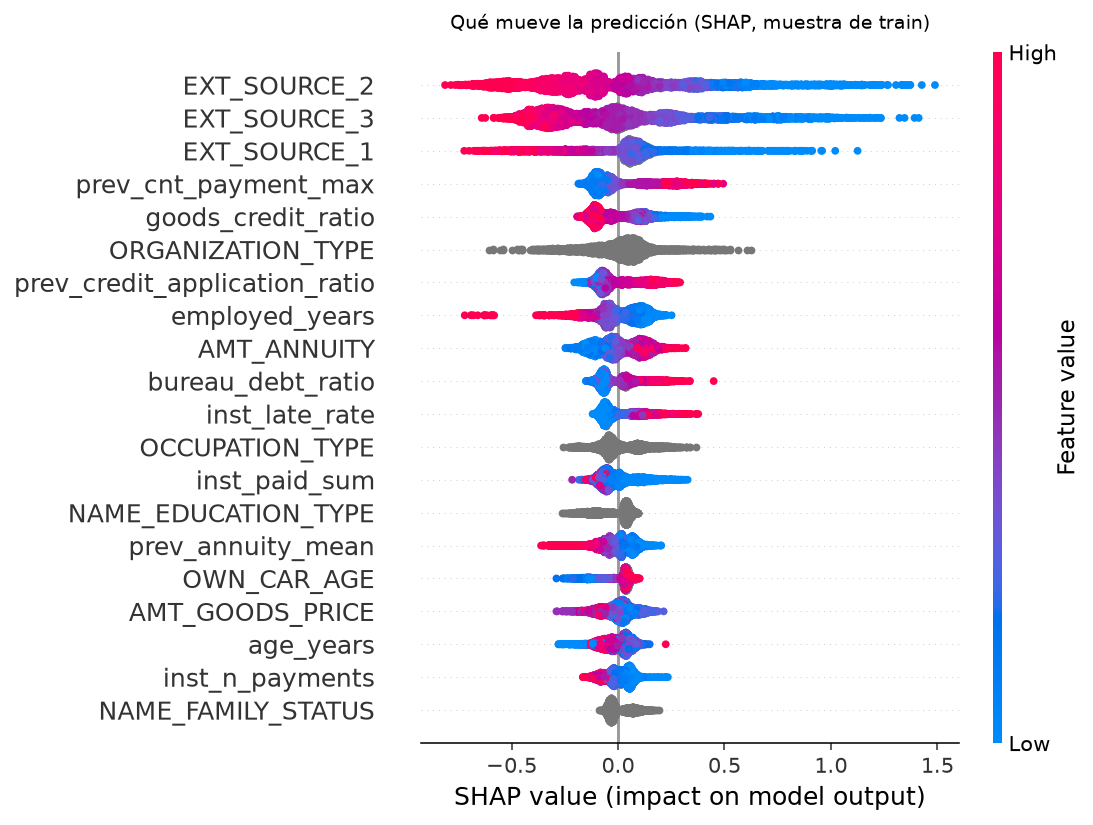
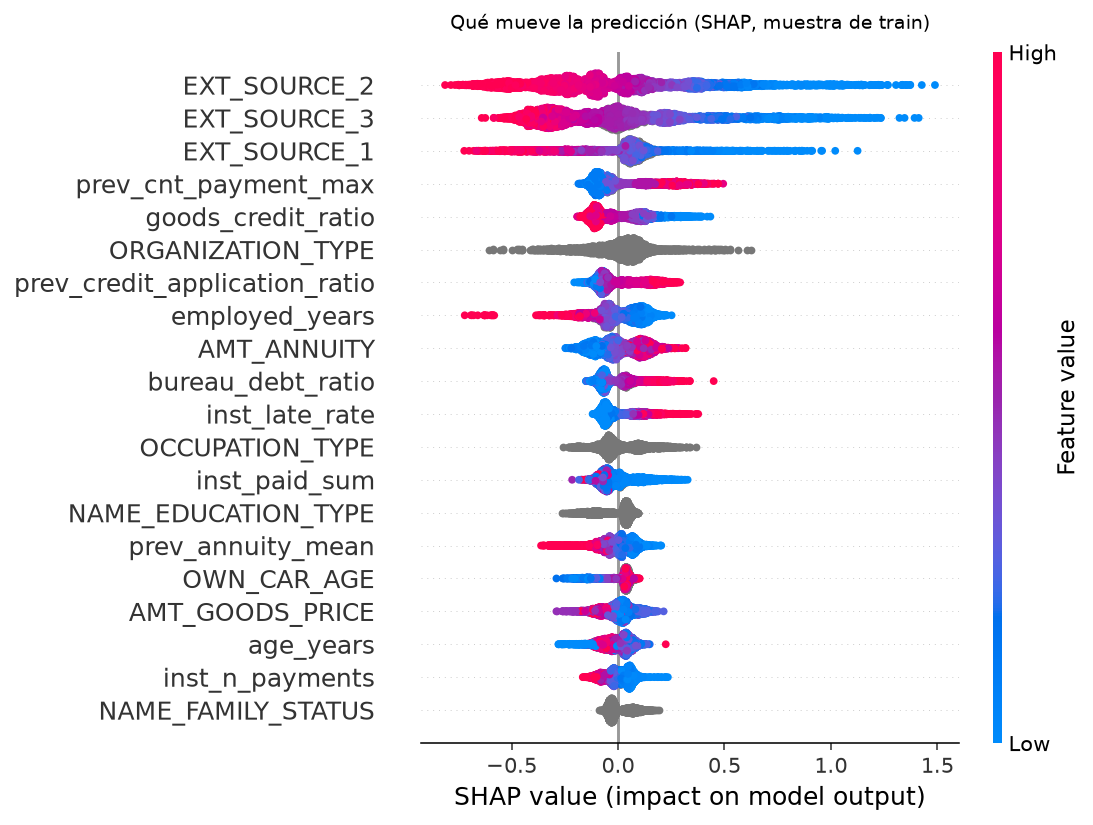
revisión: cobertura de la api, claves de las razones y readme

diff --git a/src/ayni/explain.py b/src/ayni/explain.py
@@ -16,7 +16,7 @@ from __future__ import annotations
 
 import json
 import warnings
-from dataclasses import asdict, dataclass
+from dataclasses import dataclass
 from pathlib import Path
 
 import matplotlib
@@ -56,9 +56,16 @@ class Razon:
     direccion: str  # "aumenta_riesgo" | "reduce_riesgo"
 
     def a_dict(self) -> dict:
-        datos = asdict(self)
-        datos["shap"] = round(float(self.shap), 4)
-        return datos
+        # mismos nombres que expone la API: `contribucion` en log-odds y `direccion`
+        valor = self.valor
+        if isinstance(valor, (int, float)) and not isinstance(valor, bool):
+            valor = round(float(valor), 4)
+        return {
+            "feature": self.feature,
+            "valor": valor,
+            "contribucion": round(float(self.shap), 4),
+            "direccion": self.direccion,
+        }
 
 
 def cargar_modelo(version: str = "latest") -> lgb.LGBMClassifier:
@@ -209,11 +216,15 @@ def ejecutar(version: str = "latest", muestra: int = MUESTRA_GLOBAL) -> dict:
         "aprobado": {
             "sk_id_curr": int(train.iloc[aprobado][ID_COL]),
             "probabilidad": round(float(proba[aprobado]), 4),
+            "umbral": umbral,
+            "decision": "approve" if proba[aprobado] <= umbral else "reject",
             "razones": razones_aprobado,
         },
         "rechazado": {
             "sk_id_curr": int(train.iloc[rechazado][ID_COL]),
             "probabilidad": round(float(proba[rechazado]), 4),
+            "umbral": umbral,
+            "decision": "approve" if proba[rechazado] <= umbral else "reject",
             "razones": razones_rechazado,
         },
         "figuras": [

diff --git a/src/ayni/api.py b/src/ayni/api.py
@@ -34,6 +34,10 @@ warnings.filterwarnings("ignore", message=".*shap values output has changed.*")
 
 MODELS_DIR = ROOT / "models"
 TOP_RAZONES = 5
+# El contrato HTTP cubre como máximo el 15.7 % de los 185 campos del modelo
+# (montos, ratios derivados, scores y agregados que el banco ya tiene). Avisar por debajo
+# del 50 % haría que la advertencia saltara siempre; 10 % es "solo mandaste lo obligatorio".
+COBERTURA_MINIMA = 0.10
 
 
 # ── contrato de entrada ────────────────────────────────────────────────────────
@@ -312,7 +316,7 @@ def crear_app(servicio: Servicio | None = None, directorio: Path = MODELS_DIR) -
         cobertura = _cobertura(X)
         advertencia = (
             None
-            if cobertura >= 0.5
+            if cobertura >= COBERTURA_MINIMA
             else (
                 f"Solo se informó el {cobertura:.0%} de los campos del modelo: la probabilidad "
                 "puede diferir de la que se obtendría con el expediente completo."

diff --git a/tests/test_api.py b/tests/test_api.py
@@ -9,7 +9,7 @@ import pytest
 from fastapi.testclient import TestClient
 from lightgbm import LGBMClassifier
 
-from ayni.api import cargar_servicio, crear_app
+from ayni.api import COBERTURA_MINIMA, cargar_servicio, crear_app
 
 COLUMNAS = [
     "AMT_INCOME_TOTAL",
@@ -101,11 +101,11 @@ def test_las_razones_solo_hablan_de_campos_enviados(cliente_api):
     assert usadas <= enviados
 
 
-def test_cobertura_y_advertencia_con_payload_incompleto(cliente_api):
+def test_la_advertencia_salta_exactamente_cuando_la_cobertura_es_baja(cliente_api):
     datos = cliente_api.post("/explain", json=PAYLOAD).json()
 
     assert 0 < datos["cobertura"] < 1
-    assert datos["advertencia"]
+    assert (datos["advertencia"] is not None) == (datos["cobertura"] < COBERTURA_MINIMA)
 
 
 def test_entrada_invalida_se_rechaza(cliente_api):

diff --git a/tests/test_explain.py b/tests/test_explain.py
@@ -76,5 +76,5 @@ def test_diccionario_serializable_para_la_api(modelo_y_datos):
 
     razon = razones(explicador, X.iloc[[1]], top=1)[0].a_dict()
 
-    assert set(razon) == {"feature", "valor", "shap", "direccion"}
-    assert isinstance(razon["shap"], float)
+    assert set(razon) == {"feature", "valor", "contribucion", "direccion"}
+    assert isinstance(razon["contribucion"], float)

diff --git a/README.md b/README.md
@@ -52,42 +52,55 @@ Ayni cubre las tres cosas: la predicción, la decisión por costo y la explicaci
 
 ## Uso rápido
 
+> Requiere el entorno instalado y el modelo exportado; los pasos completos están en
+> [Cómo reproducirlo](#cómo-reproducirlo).
+
 ```bash
 ayni export-model        # deja el modelo y el umbral en models/
 docker compose up        # API en :8000/docs · MLflow en :5000
 ```
 
 ```bash
-curl -X POST localhost:8000/predict -H "Content-Type: application/json" \
+curl -X POST localhost:8000/predict \
+  -H "Content-Type: application/json" \
   -d '{"amt_income_total": 180000, "amt_credit": 450000, "amt_annuity": 24500,
        "age_years": 34, "years_employed": 4, "ext_source_1": 0.55,
        "ext_source_2": 0.61, "ext_source_3": 0.40, "contract_type": "Cash loans"}'
 ```
 
 ```json
-{"probabilidad": 0.0928, "decision": "approve", "umbral": 0.16, "modelo_version": "latest"}
+{"probabilidad": 0.0888, "decision": "approve", "umbral": 0.16, "modelo_version": "latest"}
 ```
 
-Y la explicación de esa misma decisión, con las razones que se le darían al cliente:
+Y la explicación de un cliente de alto riesgo, con las razones que se le darían al rechazarlo:
 
 ```bash
-curl -X POST localhost:8000/explain -H "Content-Type: application/json"   -d '{"amt_income_total": 96000, "amt_credit": 900000, "amt_annuity": 45000,
-       "age_years": 23, "years_employed": null, "ext_source_1": 0.12,
-       "ext_source_2": 0.18, "ext_source_3": 0.09,
-       "bureau_debt_ratio": 0.95, "prev_refusal_rate": 0.9}'
+curl -X POST localhost:8000/explain \
+  -H "Content-Type: application/json" \
+  -d '{"amt_income_total": 96000, "amt_credit": 900000, "amt_annuity": 45000,
+       "age_years": 23, "children": 3, "family_members": 5,
+       "ext_source_1": 0.12, "ext_source_2": 0.18, "ext_source_3": 0.09,
+       "education": "Lower secondary", "occupation": "Low-skill Laborers",
+       "organization": "Self-employed", "bureau_debt_ratio": 0.95,
+       "prev_refusal_rate": 0.9, "inst_late_rate": 0.45}'
 ```
 
 ```json
-{"probabilidad": 0.0804, "decision": "approve", "umbral": 0.16, "cobertura": 0.059,
+{"probabilidad": 0.7976, "decision": "reject", "umbral": 0.16, "modelo_version": "latest",
  "razones": [
-   {"feature": "annuity_income_ratio", "valor": 0.469, "contribucion": 0.069,  "direccion": "aumenta_riesgo"},
-   {"feature": "age_years",            "valor": 23.0,  "contribucion": -0.033, "direccion": "reduce_riesgo"},
-   {"feature": "credit_income_ratio",  "valor": 9.375, "contribucion": 0.018,  "direccion": "aumenta_riesgo"}
- ]}
+   {"feature": "EXT_SOURCE_3",       "valor": 0.09,           "contribucion": 1.0186, "direccion": "aumenta_riesgo"},
+   {"feature": "EXT_SOURCE_2",       "valor": 0.18,           "contribucion": 0.5859, "direccion": "aumenta_riesgo"},
+   {"feature": "EXT_SOURCE_1",       "valor": 0.12,           "contribucion": 0.4990, "direccion": "aumenta_riesgo"},
+   {"feature": "bureau_debt_ratio",  "valor": 0.95,           "contribucion": 0.2426, "direccion": "aumenta_riesgo"},
+   {"feature": "ORGANIZATION_TYPE",  "valor": "Self-employed", "contribucion": 0.2309, "direccion": "aumenta_riesgo"}
+ ],
+ "cobertura": 0.141, "advertencia": null}
 ```
 
-El campo `cobertura` dice qué fracción de los 185 campos del modelo llegó en el payload, y
-`advertencia` se activa si es baja: el servicio nunca inventa razones sobre datos que no recibió.
+`cobertura` es la fracción de los 185 campos del modelo que llegó en la petición, y `advertencia` se
+activa si es muy baja: el servicio no inventa razones sobre datos que no recibió. El contrato HTTP
+cubre como máximo el **15.7 %** de esos 185 campos (el resto son columnas del expediente que el
+modelo usa y la API no pide); los que faltan viajan como nulos, igual que en el entrenamiento.
 
 ---
 
@@ -137,7 +150,7 @@ flowchart LR
 2. **Validación antes de modelar.** Tres esquemas Pandera (tabla cruda, features, particiones) cortan el pipeline si aparecen tipos, rangos o nulos imposibles; `ayni validate` comprueba lo ya escrito y devuelve código de salida 1. Un CSV corrupto de prueba en `tests/fixtures/` demuestra que el corte funciona.
 3. **Split estratificado 80/20 con semilla fija.** El 20 % de test no se toca hasta la evaluación final; todo lo demás se decide en validación cruzada.
 4. **Dos métricas, no una.** ROC-AUC para comparar con el estándar de la competencia y PR-AUC porque con 8 % de positivos es la lectura honesta.
-5. **Desbalance por pesos, no por resampling.** Se compara `scale_pos_weight` contra no ajustar, y decide la métrica, no la intuición.
+5. **Se comparó el peso de clases contra no usarlo.** `scale_pos_weight` bajó el ROC-AUC (0.7774 vs 0.7796): el desbalance se resuelve en el umbral de decisión, no recoloreando el entrenamiento.
 6. **Umbral por costo.** Se recorre la curva de umbrales y se elige el que minimiza el costo esperado, con la matriz documentada.
 7. **Explicación dentro del servicio.** SHAP global para el reporte, SHAP local convertido en *reason codes* para cada decisión individual.
 8. **Trazabilidad completa.** Cada corrida queda en MLflow y el mejor modelo va al Model Registry con su umbral pegado al artefacto.
@@ -239,11 +252,11 @@ su valor, su contribución en log-odds y la dirección del riesgo.
 ```json
 {"sk_id_curr": 288491, "probabilidad": 0.2413, "umbral": 0.16, "decision": "reject",
  "razones": [
-   {"feature": "EXT_SOURCE_3", "valor": 0.357, "shap": 0.302, "direccion": "aumenta_riesgo"},
-   {"feature": "prev_refusal_rate", "valor": 0.889, "shap": 0.301, "direccion": "aumenta_riesgo"},
-   {"feature": "EXT_SOURCE_1", "valor": 0.277, "shap": 0.256, "direccion": "aumenta_riesgo"},
-   {"feature": "EXT_SOURCE_2", "valor": 0.647, "shap": -0.206, "direccion": "reduce_riesgo"},
-   {"feature": "bureau_debt_ratio", "valor": 0.993, "shap": 0.188, "direccion": "aumenta_riesgo"}
+   {"feature": "EXT_SOURCE_3",      "valor": 0.357, "contribucion": 0.3024, "direccion": "aumenta_riesgo"},
+   {"feature": "prev_refusal_rate", "valor": 0.889, "contribucion": 0.3012, "direccion": "aumenta_riesgo"},
+   {"feature": "EXT_SOURCE_1",      "valor": 0.277, "contribucion": 0.2559, "direccion": "aumenta_riesgo"},
+   {"feature": "EXT_SOURCE_2",      "valor": 0.647, "contribucion": -0.2062, "direccion": "reduce_riesgo"},
+   {"feature": "bureau_debt_ratio", "valor": 0.993, "contribucion": 0.1883, "direccion": "aumenta_riesgo"}
  ]}
 ```
 
@@ -294,7 +307,7 @@ seis figuras en [`reports/figures/`](reports/figures/).
 - **LightGBM como modelo principal, regresión logística como baseline:** los datos son tabulares, con nulos y categóricas de alta cardinalidad; el baseline existe para demostrar cuánto aporta la complejidad, no para competir.
 - **Agregaciones en SQL sobre DuckDB en vez de `groupby` en pandas:** las tablas relacionadas tienen decenas de millones de filas; el SQL es reproducible, legible y no exige cargar todo en RAM.
 - **El test no se toca hasta el final:** cada decisión de features, hiperparámetros y umbral se toma en validación. Un test consultado dos veces deja de ser test.
-- **Umbral distinto de 0.5:** aprobar a un mal pagador cuesta 5 y rechazar a un buen cliente cuesta 1; el punto que minimiza el costo esperado no es el punto que maximiza el F1.
+- **Umbral por costo:** aprobar a un mal pagador cuesta 5 y rechazar a un buen cliente cuesta 1; el punto que minimiza el costo esperado no es el que maximiza el F1.
 - **Se descartó `scale_pos_weight`:** con pesos, el ROC-AUC baja (0.7774 vs 0.7796) y el early
   stopping se dispara en la primera iteración porque la logloss de validación deja de ser
   comparable. El desbalance se resuelve eligiendo el umbral por costo, no recoloreando el
@@ -313,7 +326,8 @@ seis figuras en [`reports/figures/`](reports/figures/).
 ## Limitaciones y trabajo futuro
 
 - **La matriz de costos es supuesta.** 5:1 es un supuesto de negocio razonable, no un dato del banco. El pipeline la deja como parámetro: con 20:1 el umbral baja a 0.045 y se aprueba al 48.6 %, así que **la política de riesgo se cambia sin reentrenar**, solo moviendo dos números.
-- **El drift es simulado.** Se alteran features del test a propósito; detectar ese drift prueba que el monitoreo funciona, no que el modelo aguante producción real.
+- **El drift es simulado.** Se alteran features de `train` a propósito; detectar ese drift prueba que el monitoreo funciona, no que el modelo aguante producción real.
+- **El contrato HTTP es parcial.** La API pide 23 campos de negocio y el modelo usa 185: lo que no llega se trata como nulo, así que una petición incompleta no es equivalente al expediente completo. El campo `cobertura` lo expone en cada respuesta.
 - **Riesgo de sesgo.** Edad y género correlacionan con el target y con decisiones históricas; el modelo puede heredar discriminación aunque no las use directamente.
 - **Una sola foto temporal.** No hay validación out-of-time porque el dataset no trae fechas de originación reales.
 - **Trabajo futuro:** reentrenamiento programado, feature store, y reglas de negocio encima del score.
@@ -331,9 +345,10 @@ pip install -e . --no-deps       # habilita el comando `ayni`
 pre-commit install
 
 # 2. Datos (requiere cuenta de Kaggle y aceptar las reglas de la competencia)
-ayni download                    # descarga y descomprime en data/raw (~1.3 GB)
+ayni download                    # descarga y descomprime en data/raw (~690 MB)
 ayni data                        # verifica que estén las 8 tablas
 ayni parquet                     # CSV → Parquet en data/interim
+ayni validate                    # esquemas Pandera sobre lo que haya en disco
 
 # 3. Pipeline
 make features                       # SQL en DuckDB → features.parquet + split
@@ -382,23 +397,31 @@ Ayni/
 │   ├── threshold.py              # decisión por costo
 │   ├── evaluate.py               # umbral OOF y evaluación en test
 │   ├── explain.py                # SHAP global, local y reason codes
+│   ├── drift.py                  # simulación de producción + Evidently
 │   ├── export.py                 # artefacto para servir
 │   ├── api.py                    # FastAPI: /health, /predict, /explain
 │   └── cli.py                    # python -m ayni <comando>
 ├── tests/
-│   ├── fixtures/
+│   ├── fixtures/                 # CSV válido y corrupto de 6 filas
 │   ├── test_api.py
+│   ├── test_drift.py
 │   ├── test_explain.py
 │   ├── test_features.py
+│   ├── test_quality.py
 │   ├── test_schema.py
+│   ├── test_smoke.py
 │   ├── test_threshold.py
 │   └── test_train.py
 ├── reports/
-│   ├── figures/                  # 10 figuras del proyecto
+│   ├── figures/                  # 11 figuras
 │   ├── umbral.json
-│   └── evaluacion_test.json
+│   ├── evaluacion_test.json
+│   ├── drift_resumen.json
+│   └── razones_ejemplo.json
+├── .github/workflows/ci.yml
 ├── Dockerfile
 ├── docker-compose.yml
+├── LICENSE
 ├── requirements-api.txt          # dependencias solo del servicio
 ├── requirements.txt              # entrenamiento y análisis
 └── README.md
